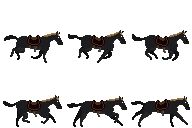
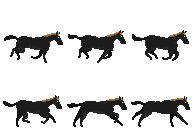
Juego de caballo modificado y listo

diff --git a/Assets/Scripts/HorseRunner/HorseRunnerScore.cs b/Assets/Scripts/HorseRunner/HorseRunnerScore.cs
@@ -91,7 +91,7 @@ public class HorseRunnerScore : MonoBehaviour
         ShowGameOver();
 
         // Ralentizar juego
-        Time.timeScale = 0.5f;//0.5
+        Time.timeScale = 0.2f;//0.5
 
         // Esperar y cambiar escena
         Invoke(nameof(LoadNext), 1f);